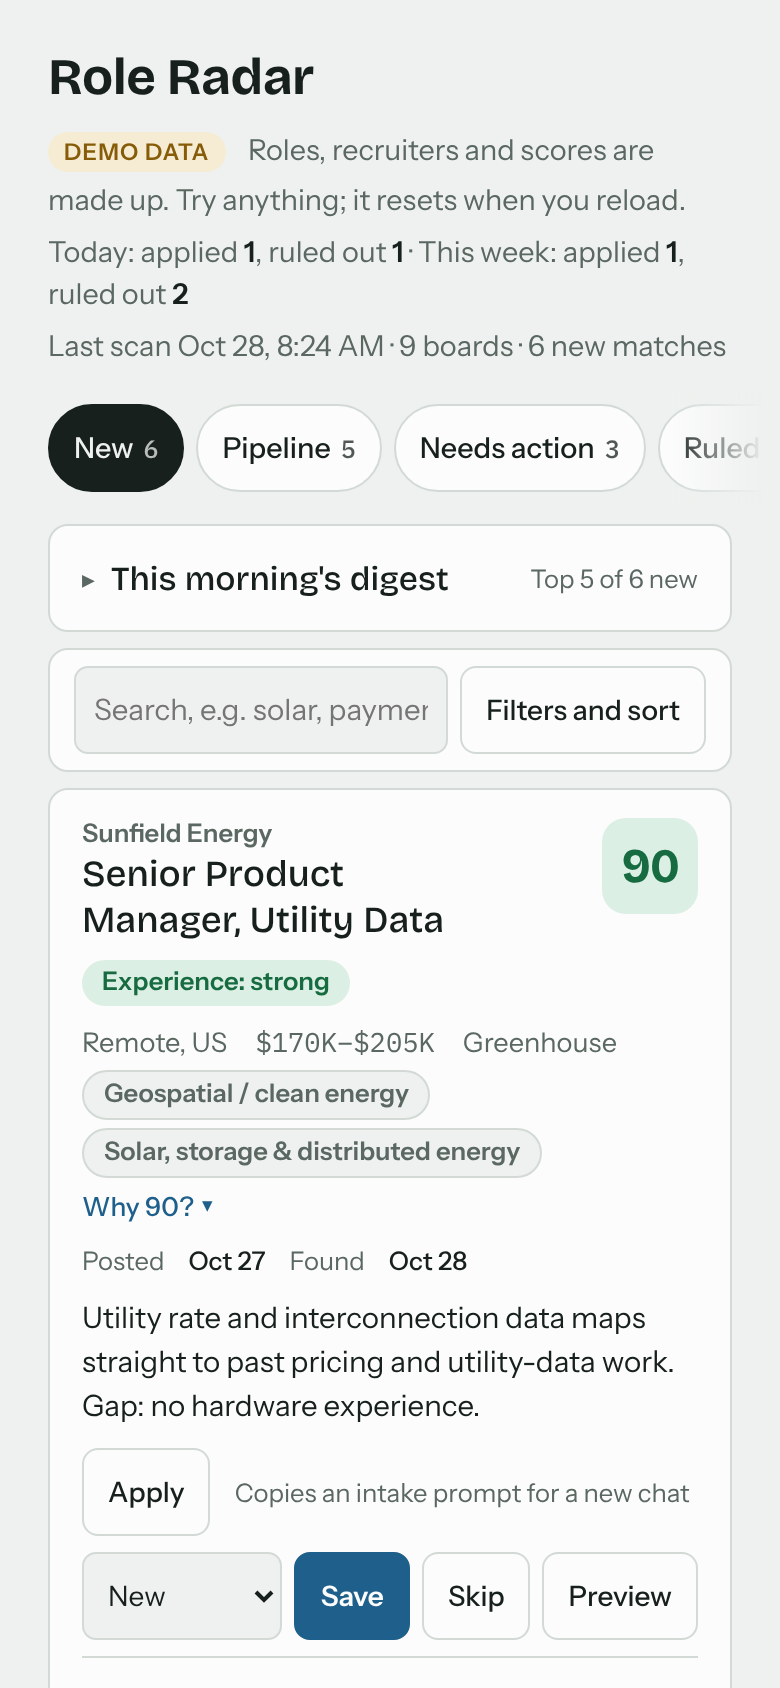
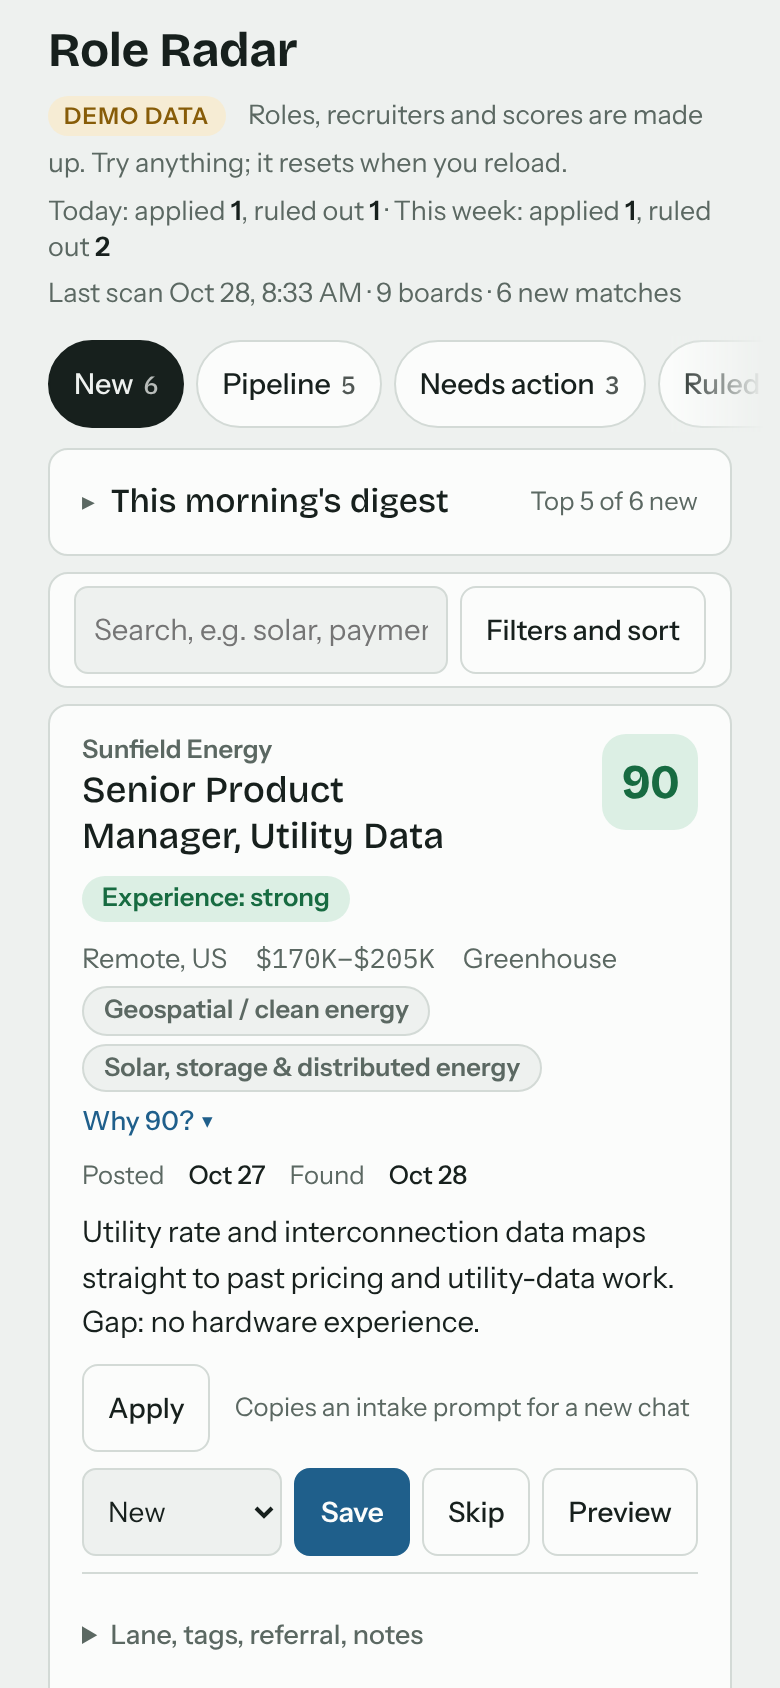
RR-UX7-1: more room on the phone first screen (CI fonts sat 17px over)
Claude-Session: https://claude.ai/code/session_01S2xZTupe2qe2vZrkJ8z2XQ

Changed region(s): [[0.0615, 0.0, 0.9538, 0.9858], [0.5846, 0.5545, 0.7692, 0.5853], [0.9231, 0.3081, 0.9538, 0.3389]]

diff --git a/app/role-radar.html b/app/role-radar.html
@@ -313,7 +313,9 @@ details.more form{display:grid;gap:10px;padding-top:10px}
   body.previewing{overflow:hidden}
 }
 /* RR-UX7-1: phones get tighter spacing above the first role (these follow the base rules they override). */
-@media (max-width:600px){.main{gap:10px}.fbar{margin-bottom:8px}#digestCard{margin-bottom:8px}.lede{line-height:1.45}}
+@media (max-width:600px){.main{gap:8px}.fbar{margin-bottom:8px;padding-block:6px}#digestCard{margin-bottom:8px}
+  .wrap{padding-top:4px}.showcase{margin-bottom:-12px}.showcase a{font-size:.85rem}h1{font-size:1.5rem;line-height:1.15}
+  .lede{font-size:.875rem;line-height:1.4}header .sub{font-size:.84rem;line-height:1.4}#tabs{padding-block:2px}}
 </style>
 
 <div class="wrap">

diff --git a/HANDOFF.md b/HANDOFF.md
@@ -108,7 +108,7 @@ _Updated 2026-10-24._
 - RR-M3.3 UI to 8/10 (`claude/project-thread-6wmh2k-m3-3`, stacked on M3.2), round 1: ux-reviewer 5/10 before (390: 4.5, 1280: 5.5), 6.5/10 after. `tests/ui-polish.test.mjs` RR-UX3-1..7, red first: score is a 48px tile top-right; phone tabs are one scrolling row (still not sticky) so the first card is above the fold; full-width phone titles; one filled primary action per card (`.btn.cta`); aligned Values/Culture rows; accent links; 16px body and one sentence-case label style. README screenshots regenerated. 236 tests, green 3x. Round 2: RR-UX4-1..8 red first, then fixed: filters fold behind the toggle at every width (supersedes the old "wide screen shows filters" test, rewritten to the new rule), 44px Pipeline section rows, phone fit reasons on their own line, at most one accent action per card, "Start from the example" primary on an empty editor, "Open Criteria" on a first-run New tab, compact score math, a solid error card with a filled Reload. 244 tests, green 3x. Screenshots regenerated. ux-reviewer after round 2: 7.0/10 (390 and 1280); next gap is the laptop first screen (tabs wrap to 2 rows, 3-4 grey header lines).
 - RR-M3.4 harden (`claude/project-thread-6wmh2k-m3-4`, stacked on M3.3): new `.github/workflows/ci.yml` runs the personal-data check, `npm test` (unit + browser tests in Chromium) and the demo build on every PR and push to main; `pages.yml` now deploys only after `ci` succeeds on a push to main (`workflow_run`), with Pages write permissions on the deploy job only; `.github/dependabot.yml` (npm + actions, weekly, grouped); README CI badge. qa-tdd sweep mapped every core flow to tests and added `tests/hardening-4.test.mjs` (RR-H-11..28) and `tests/ci-config.test.mjs`: 11 real bugs, all fixed (Save details now redraws, long strings no longer widen the page, blank inputs refused with a message, "Untitled role", unknown statuses shown honestly, YAML lists refused, null Gmail messages skipped, 2,000 roles: All tab 6.6s -> 0.7s, search 7.7s -> 0.2s). privacy-security: safe to ship, no P0/P1. 265 tests, green 3x. First CI run caught a timing flake in the skip-form focus check (read focus the same tick as the click); the test now waits for focus.
 - RR-M3.5 enhancements (`claude/project-thread-6wmh2k-m3-5`, stacked on M3.4), picked for recruiter impact: (1) "This morning's digest" card at the top of New (what the scan would send, from a shared `digestOf()` that the Criteria preview also uses; open at 900px+, collapsed on phones; entries jump to the role). (2) Deep links: `?tab=<id>` (hidden tabs never open from a link), tab clicks keep the URL in sync, `#role-<id>` focuses a role card. `tests/enhancements.test.mjs` RR-M3.5-1..14, red first. 279 tests, green 3x. CI caught RR-H-21 at 502ms (limit 500): the digest card re-ranked all New roles on every search keystroke; `digestOf()` now caches while jobs and criteria are unchanged (keystroke 258-392ms -> 144-196ms locally).
-- RR-M3.6 final UI round + demo check (`claude/project-thread-6wmh2k-m3-6`, stacked on M3.5): RR-UX5-1 tabs are one tighter row (scrolls sideways with an edge fade and arrow/Home/End keys when they don't fit), RR-UX5-2 header meta on two lines so the first role is above the fold at 1280x800 with the digest open, RR-UX5-3 no Apply on applied-or-later roles, RR-UX5-5 buttons never wrap. Red first in `tests/ui-polish.test.mjs`. 283 tests, green 3x. ux-reviewer then 7.3/10. Round RR-UX6: at 900px+ Criteria, Watchlist and Scan rules sit as a quieter group on the right so every public tab fits (the private build, with Recruiters, still scrolls slightly); on phones Values/Culture and the score math sit behind a "Why <score>?" button and Sample posting is desktop-only, so New cards are under 460px; digest says "Top 5 picks"; the filter bar hides on empty tabs. 286 tests, green 3x. Round RR-UX7: private-build tabs fit at 900px+ (tighter tabs, "All roles" now "All", Watchlist count hidden at 900px+); on phones the first New title starts above 560px (inline demo chip, one-row search plus Filters, "Showing X of Y" only when filtered); Pipeline buttons move as one group instead of Preview wrapping alone; digest reads "Top N of M new" and the header drops the new-match count when jobs fail to load. 290 tests, green 3x.
+- RR-M3.6 final UI round + demo check (`claude/project-thread-6wmh2k-m3-6`, stacked on M3.5): RR-UX5-1 tabs are one tighter row (scrolls sideways with an edge fade and arrow/Home/End keys when they don't fit), RR-UX5-2 header meta on two lines so the first role is above the fold at 1280x800 with the digest open, RR-UX5-3 no Apply on applied-or-later roles, RR-UX5-5 buttons never wrap. Red first in `tests/ui-polish.test.mjs`. 283 tests, green 3x. ux-reviewer then 7.3/10. Round RR-UX6: at 900px+ Criteria, Watchlist and Scan rules sit as a quieter group on the right so every public tab fits (the private build, with Recruiters, still scrolls slightly); on phones Values/Culture and the score math sit behind a "Why <score>?" button and Sample posting is desktop-only, so New cards are under 460px; digest says "Top 5 picks"; the filter bar hides on empty tabs. 286 tests, green 3x. Round RR-UX7: private-build tabs fit at 900px+ (tighter tabs, "All roles" now "All", Watchlist count hidden at 900px+); on phones the first New title starts above 560px (inline demo chip, one-row search plus Filters, "Showing X of Y" only when filtered); Pipeline buttons move as one group instead of Preview wrapping alone; digest reads "Top N of M new" and the header drops the new-match count when jobs fail to load. CI fonts put the phone title 22px lower, so the phone header was tightened too (intro 14px, title at 469px locally). ux-reviewer final: 8.0/10 (390: 7.9, 1280: 8.1), no P0/P1; P2s RR-UX8-1..3 left for the next round. 290 tests, green 3x.
 - Night shift 2026-10-23 (hardening), draft PR #31: done and marked ready. Round 3 review found nothing at P2 or above (one P2 leftover also fixed: dates and pay inside sentences now use the body font). 127 tests, green 3x.
 - Power hour (Chase, 2026-10-22): PRs #20-#25 (recruiter-ready) and #16 (dream-role anchors, 93/93 tests on the merge) are merged to main. PR #18 (job description preview) merged 2026-10-23 after bringing main in; live page republished with `posting.js` the same day.
 - Public demo: merged (PR #17), repo renamed to `role-radar`, redeployed, Pages green after #25. Waiting on a phone check of the live URL and https, and on the portfolio repoint (intake with Chase).
@@ -136,7 +136,7 @@ _Updated 2026-10-24._
 - The live page is `app/role-radar.html` published with `src/scoring.js`, `src/gmail-import.js`, `src/posting.js`, `src/alerts.js`, `src/progress.js`, `src/skip-feedback.js` and (from RR-M2.4) `src/recruiter-store.js` as supporting files of the same names, and `capabilities` = `app/capabilities.json` (never `{db: {}}`, which drops the owner-only rule).
 
 ## Decisions to review
-- RR-UX7: the "All roles" tab reads "All", the Watchlist count is hidden at 900px+, and the digest says "Top N of M new" (M = the scan's new-match count). With bigger real counts (for example "Recruiters 12 due"), the private tab bar can still overflow and falls back to the sideways scroll. On phones the first title clears the 560px line by about 5px.
+- RR-UX7: the "All roles" tab reads "All", the Watchlist count is hidden at 900px+, and the digest says "Top N of M new" (M = the scan's new-match count). With bigger real counts (for example "Recruiters 12 due"), the private tab bar can still overflow and falls back to the sideways scroll. Phone header text is now 13.4-14px to keep the first role high.
 - RR-M3.4: cards are reused between redraws while their data hasn't changed, and lists of 200+ cards skip off-screen layout (`content-visibility:auto`); no paging. Actions are pinned by tag, not SHA (RR-PS-2, P2); CI runs the privacy check without the private denylist (RR-PS-3, P2: keep running it locally, or add the denylist as a secret for push-to-main runs).
 - RR-UX4-1: filters now fold behind the Filters button on desktop too (they pushed the first role below the fold). Reversible in one CSS line.
 - RR-M3.2: adding a company that's already on the watchlist is refused too (saving it again would reset its board health). The embedded example criteria make the page ~220 lines longer.
